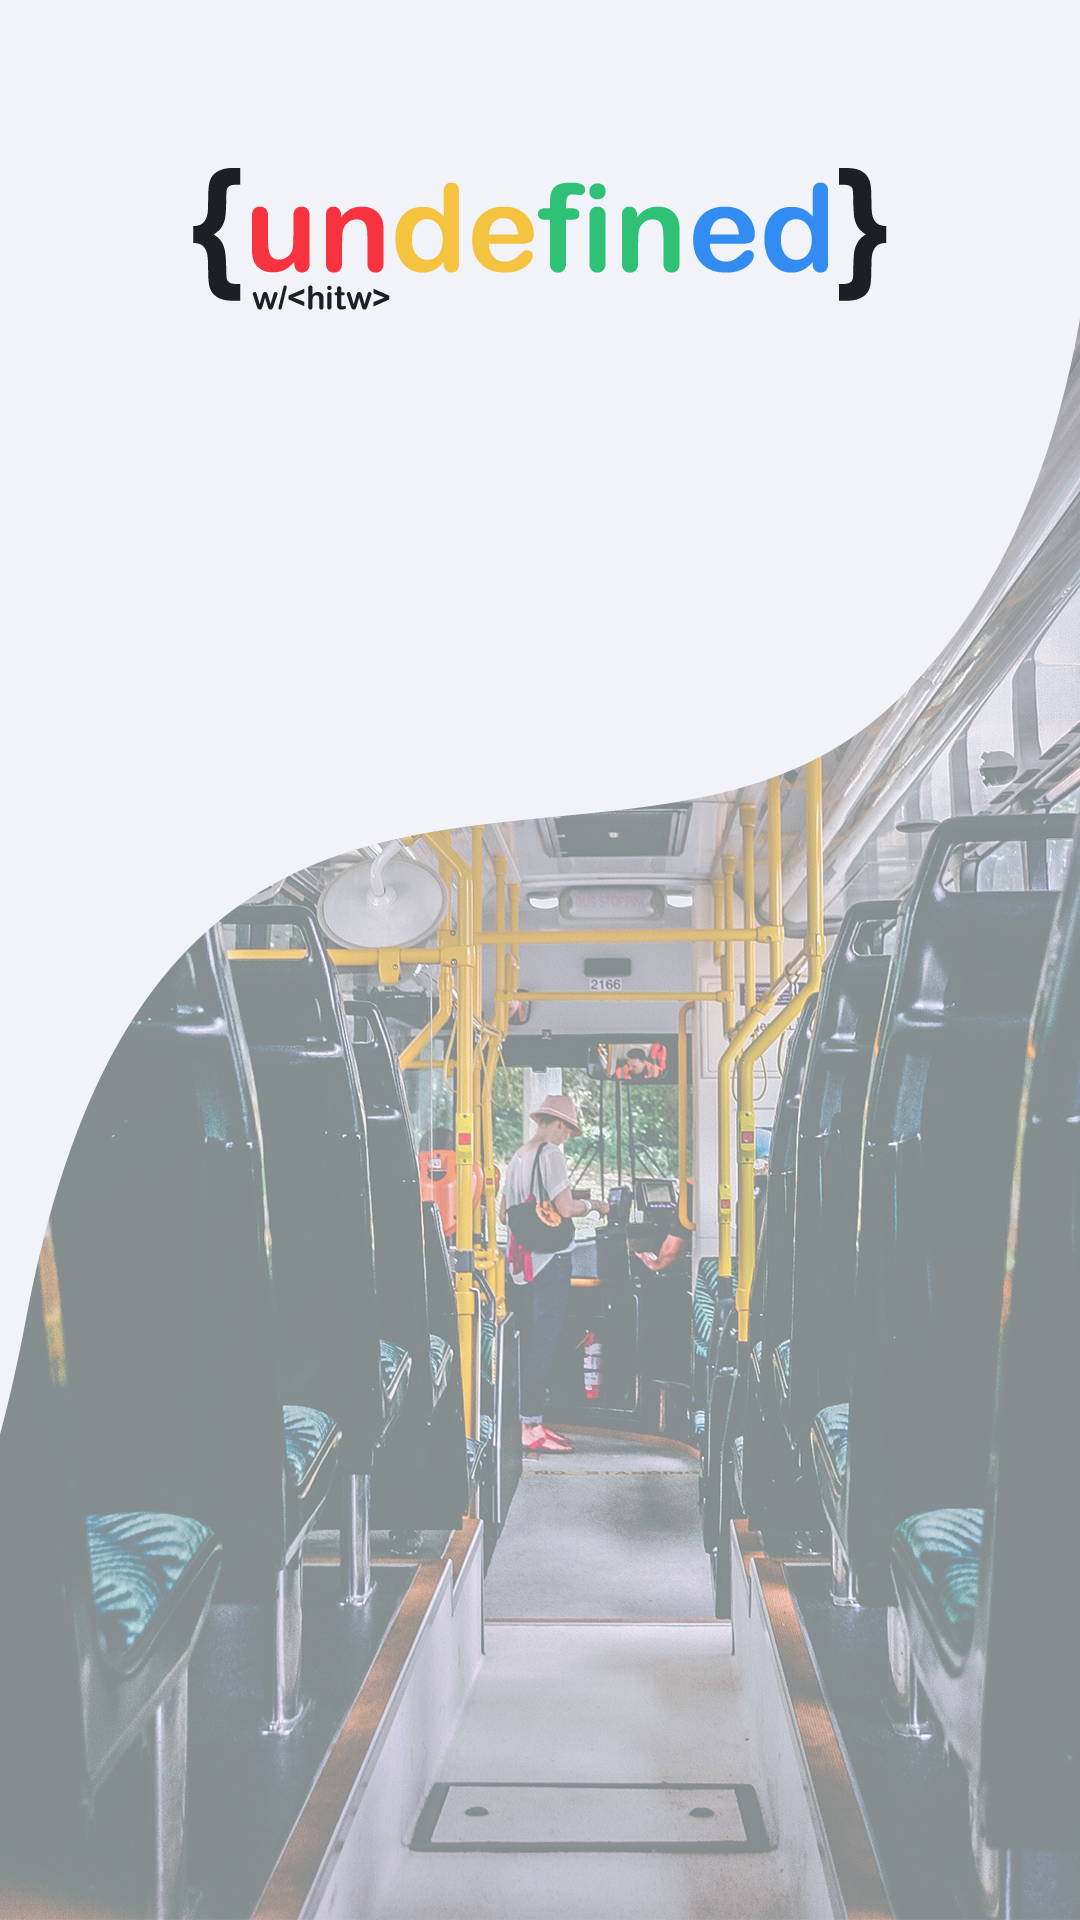
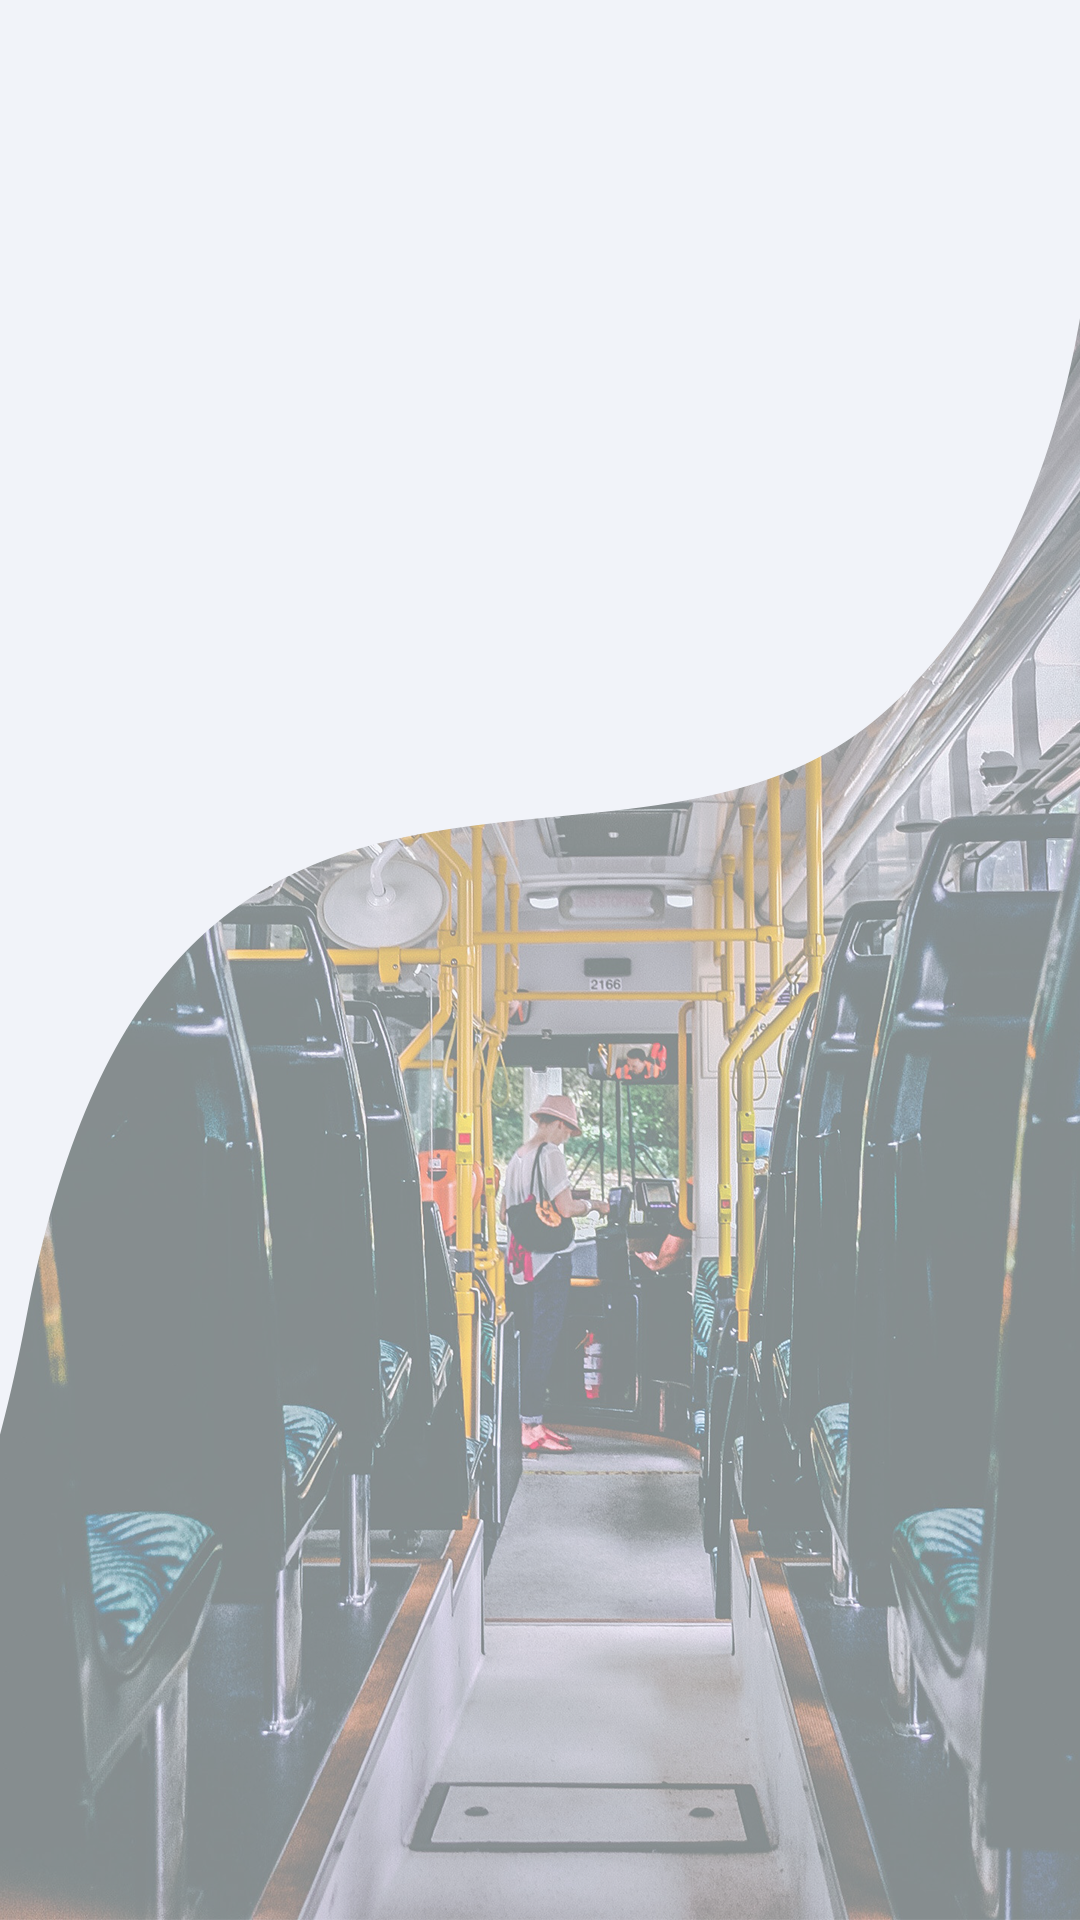
css

Changed region(s): [[0.1833, 0.0625, 0.825, 0.1562]]

diff --git a/client/src/components/pages/Adapt.js b/client/src/components/pages/Adapt.js
@@ -63,36 +63,46 @@ const Adapt = () => {
                 vibrate(distance)
             }
         }
-      }
-
+      }	
 	return (
 		<>
-        {
+        {	
             transport ? (
-                <div className='box-transport-method'>       
-                    <span onClick={handleTransport}><TransportBtn transport={"pied"} bgColor={"linear-gradient(#fd626c,#F83340)"}/></span>
-                    <span><TransportBtn transport={"bus"} bgColor={"linear-gradient(#FFE046,#ffc600)"}/></span>
-                    <span><TransportBtn transport={"tram"} bgColor={"linear-gradient(#30D680,#00c94c)"}/></span>
-                    <span><TransportBtn transport={"train"} bgColor={"linear-gradient(#338CF1,#0b60c1)"}/></span>
-			    </div>
+				<>
+					<div className='logo'></div>
+					<div className='box-transport-method'>       
+						<span onClick={handleTransport}><TransportBtn transport={"pied"} bgColor={"linear-gradient(#fd626c,#F83340)"}/></span>
+						<span><TransportBtn transport={"bus"} bgColor={"linear-gradient(#FFE046,#ffc600)"}/></span>
+						<span><TransportBtn transport={"tram"} bgColor={"linear-gradient(#30D680,#00c94c)"}/></span>
+						<span><TransportBtn transport={"train"} bgColor={"linear-gradient(#338CF1,#0b60c1)"}/></span>
+					</div>
+				</>
             ):(
+	
                 <>
-                    <div className="choice-stops">
-                        <svg className='choise-icon' xmlns="http://www.w3.org/2000/svg" viewBox="0 0 512 512"><path d="M500.3 443.7l-119.7-119.7c27.22-40.41 40.65-90.9 33.46-144.7C401.8 87.79 326.8 13.32 235.2 1.723C99.01-15.51-15.51 99.01 1.724 235.2c11.6 91.64 86.08 166.7 177.6 178.9c53.8 7.189 104.3-6.236 144.7-33.46l119.7 119.7c15.62 15.62 40.95 15.62 56.57 0C515.9 484.7 515.9 459.3 500.3 443.7zM79.1 208c0-70.58 57.42-128 128-128s128 57.42 128 128c0 70.58-57.42 128-128 128S79.1 278.6 79.1 208z"/></svg>
-                        <input list="stops" id='search' onChange={handleArrets}/>
+					<div className='container'>
+						
+						<div>
+							<h1 className='title-1'>Veuillez choisir votre arrêt</h1>
+							<div className="choice-stops">
+								<svg className='choise-icon' xmlns="http://www.w3.org/2000/svg" viewBox="0 0 512 512"><path d="M500.3 443.7l-119.7-119.7c27.22-40.41 40.65-90.9 33.46-144.7C401.8 87.79 326.8 13.32 235.2 1.723C99.01-15.51-15.51 99.01 1.724 235.2c11.6 91.64 86.08 166.7 177.6 178.9c53.8 7.189 104.3-6.236 144.7-33.46l119.7 119.7c15.62 15.62 40.95 15.62 56.57 0C515.9 484.7 515.9 459.3 500.3 443.7zM79.1 208c0-70.58 57.42-128 128-128s128 57.42 128 128c0 70.58-57.42 128-128 128S79.1 278.6 79.1 208z"/></svg>
+								<input list="stops" id='search' onChange={handleArrets}/>
+							</div>
 
-                        <datalist id='stops'>
-                            {
-                            arrets.stops.map((arret, i)=> <option value={arret.name} key={i}/>)         
-                            }
-                        </datalist>
-                    </div>
-                    <button >commencer</button>
+							<datalist id='stops'>
+								{
+									arrets.stops.map((arret, i)=> <option value={arret.name} key={i}/>)         
+								}
+							</datalist>
+						</div>
+						<div className='start-button'>
+							<button>COMMENCER</button>
+						</div>
+					</div>
                 </>
             )
         }
         </>
 	);
 };
-
 export default Adapt;

diff --git a/client/src/components/style/adapt.css b/client/src/components/style/adapt.css
@@ -1,14 +1,50 @@
+@import url('https://fonts.googleapis.com/css2?family=Outfit:wght@500&display=swap');
+
+
+body{
+	margin: 0;
+	padding: 0;
+    background-image: url(../../../public/background/bg-1.png);
+    background-repeat:no-repeat;
+	background-size: cover;
+    background-attachment: fixed;
+    background-position: center;
+	font-family: 'Outfit', sans-serif;
+}
+
+.logo{
+	height: 20vh;
+	background-image: url(../../../public/icons/logo.png);
+	background-repeat:no-repeat;
+	background-size: cover;
+    background-position: center;
+}
+
+
 .box-transport-method{
 	display: flex;
 	flex-wrap: wrap;
 	justify-content: center;
-    margin-top: 30vh;
-	margin-left: 1vw;
-	margin-right: 1vw;
+    margin-top: 15vh;
+	margin-left: 5vw;
+	margin-right: 5vw;
     background-color: #ffffff8b;
     filter: drop-shadow(0px 0px 20px var(--black-shadow));
     backdrop-filter: blur(5px);
     border-radius: 30px;
+}
+
+.container{
+	height: 100vh;
+	display: flex;
+	flex-direction: column;
+	justify-content: space-evenly;
+}
+
+.title-1{
+	text-align: center;
+	font-size: 40pt;
+	margin-bottom: 10px;
 }
 
 .choice-stops{
@@ -16,11 +52,14 @@
 	width: 80vw;
 	font-size: 10px;
 	border-width: 12px;
-	border-color: #338CF1;
+	border-color: #F83340;
 	background-color: var(--white);
 	border-style: solid;
 	border-radius: 30px;
-	margin: auto;
+	margin-left: auto;
+	margin-right: auto;
+	filter: drop-shadow(0px 0px 5px #00000038);
+
 }
 
 .choice-stops input{
@@ -41,21 +80,23 @@
 	margin-left: 10px;
 	margin-top: 5px;
 	height: 40px;
-	fill: #338CF1;
+	fill: #F83340;
 }
 
 .start-button{
-	width: 100vw;
+	text-align: center;
+	filter: drop-shadow(0px 0px 5px #00000038);
 }
 
 .start-button button{
 	font-weight: bold;
 	font-size: 25pt;
-	background: var(--blue);
+	background: var(--red);
 	color: var(--white);
-	padding: 10px;
+	padding: 15px;
 	border-radius: 20px;
-	border: none;
+	border-style: solid;
+	border-width: 8px;
+	border-color: var(--white);
 	outline: inherit;
-	margin: auto;
 }

diff --git a/client/src/components/style/transportButton.css b/client/src/components/style/transportButton.css
@@ -1,19 +1,12 @@
-body{
-    background-image: url(../../../public/background/bg-1.png);
-    background-repeat:no-repeat;
-	background-size: cover;
-    background-attachment: fixed;
-    background-position: center;
-}
-
 .icon{
     width: 27vw;
     height: 27vw;
     margin: 4vw;
     margin-bottom: 5vw;
-    padding: 5vw;
+    padding: 3vw;
     border-radius: 30px;
     cursor: pointer;
+    filter: drop-shadow(0px 0px 5px #00000008);
 }
 .icon img{
     width: 27vw;
